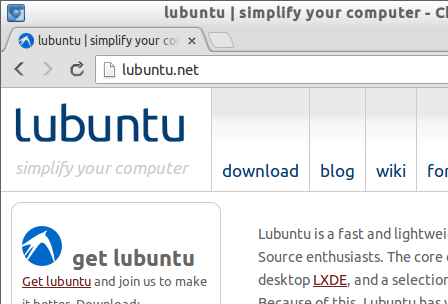
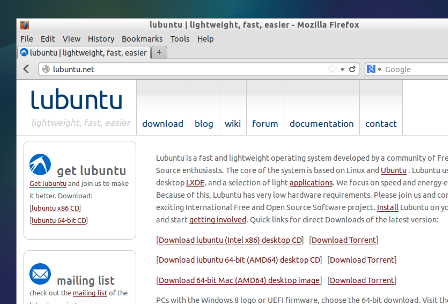
Updated Lubuntu slideshow for 13.10

diff --git a/slideshows/lubuntu/slides/02_browser.html b/slideshows/lubuntu/slides/02_browser.html
@@ -5,19 +5,15 @@
 <div class="text">
 
 <div>
-	<p>Browse the web with <em>Chromium</em>, the open-source version of Chrome, a web browser developed by Google. It's safe, stable, fast and even supports your favorite addons/extensions.</p>
-</div>
-
-<div>
-	<p>Did you know that Lubuntu has its own Chrome extension available for free? Visit the <a href="https://chrome.google.com/webstore/detail/hemkkjpjknkkndhconammdhlhdkjclim">Chrome Web Store</a> for more information.</p>
+	<p>Browse the web using <em>Firefox</em>, the open-source cross-platform web browser used by millions around the world. It's safe, stable, fast and supports customization through add-ons.</p>
 </div>
 
 <div class="featured">
 <h2 class="subtitle">Included software</h2>
 <ul>
 	<li>
-	<img class="icon" src="icons/chromium.png" />
-	<p class="caption">Chromium</p>
+	<img class="icon" src="icons/firefox.png" />
+	<p class="caption">Firefox</p>
 	</li>
 </ul>
 <h2 class="subtitle">Supported software</h2>
@@ -28,8 +24,8 @@
 	</li>
 
 	<li>
-	<img class="icon" src="icons/firefox.png" />
-	<p class="caption">Firefox</p>
+	<img class="icon" src="icons/chromium.png" />
+	<p class="caption">Chromium</p>
 	</li>
 </ul>
 </div>
